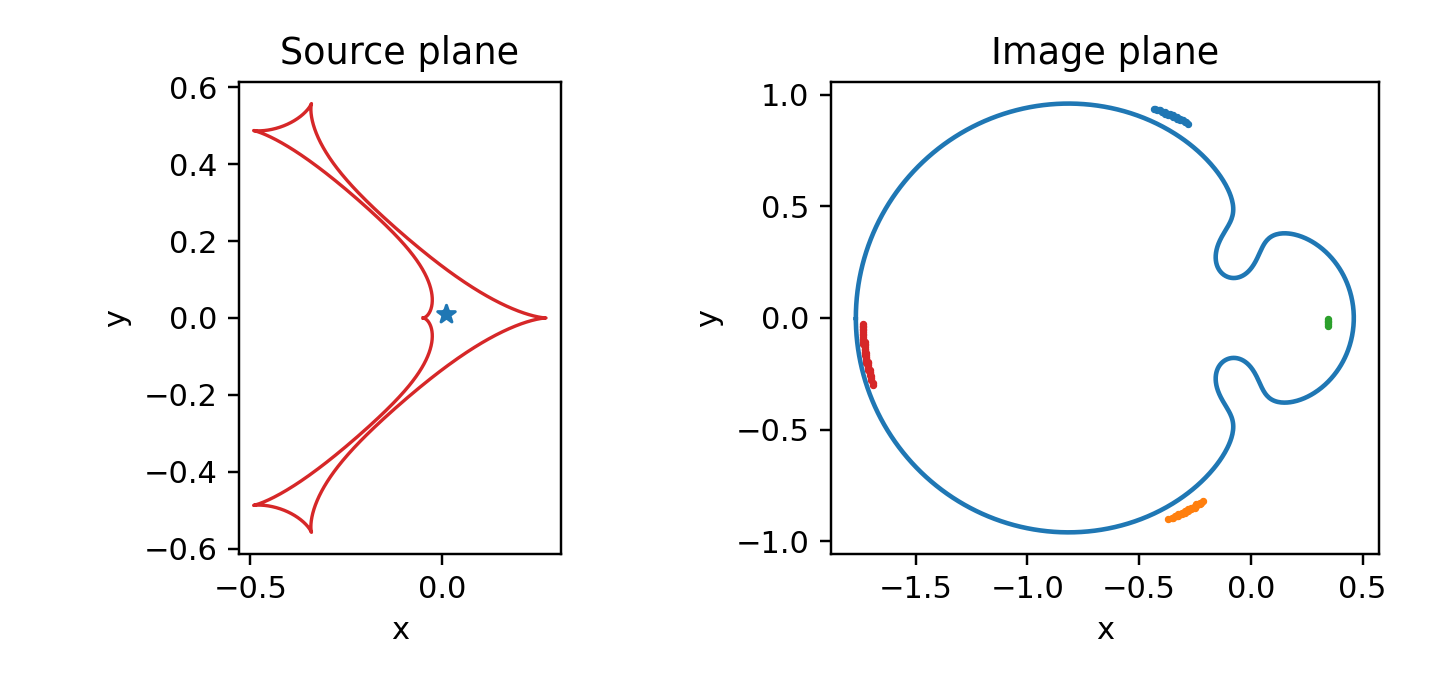
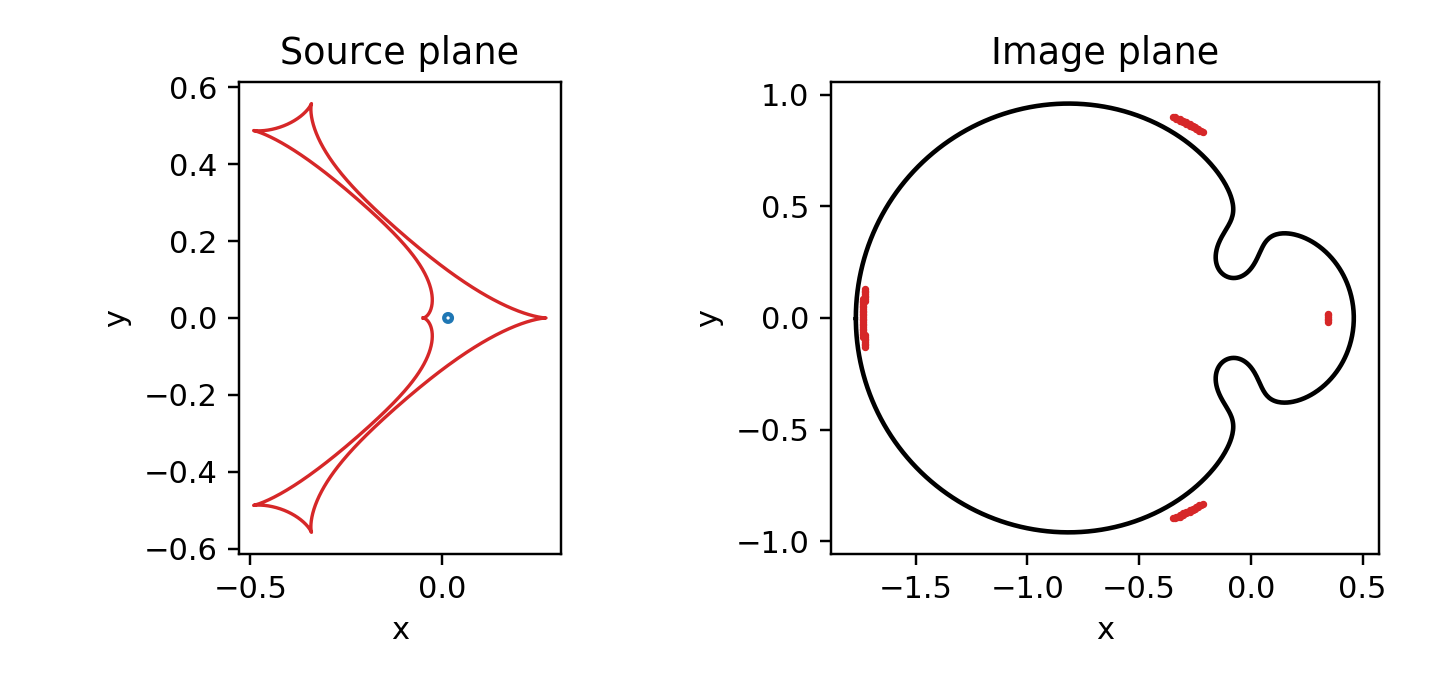
docs: clarify binary lens image-plane geometry

diff --git a/example/docs-python/generate_figures.py b/example/docs-python/generate_figures.py
@@ -61,7 +61,7 @@ def standard_binary():
 
 
 def binary_lens_images():
-    q, s, y1, y2, rho = 0.1, 0.8, 0.01, 0.01, 0.01
+    q, s, y1, y2, rho = 0.1, 0.8, 0.015, 0.0, 0.01
     image_plane = lcbinint.image.ImagePlane(
         q=q, s=s, x=y1, y=y2, rho=rho, coordinates="lcbinint"
     )
@@ -72,15 +72,16 @@ def binary_lens_images():
     fig, (source_ax, image_ax) = plt.subplots(1, 2, figsize=(6.6, 3.1))
     for x, y in zip(caustics.x, caustics.y):
         source_ax.plot(x, y, color="tab:red", lw=1.1)
-    source_ax.scatter([y1], [y2], marker="*", color="tab:blue")
-    source_ax.add_patch(Circle((y1, y2), rho, fill=False, color="tab:blue"))
+    source_ax.add_patch(Circle(
+        (y1, y2), rho, fill=False, edgecolor="tab:blue", linewidth=1.4
+    ))
     source_ax.set(title="Source plane", xlabel="x", ylabel="y", aspect="equal")
 
     for x, y in zip(critical_curves.x, critical_curves.y):
-        image_ax.plot(x, y, color="tab:blue")
+        image_ax.plot(x, y, color="black")
     for region in image_regions:
         if len(region.points):
-            image_ax.scatter(region.points[:, 0], region.points[:, 1], s=2)
+            image_ax.scatter(region.points[:, 0], region.points[:, 1], s=2, color="tab:red")
     image_ax.set(title="Image plane", xlabel="x", ylabel="y", aspect="equal")
     fig.tight_layout()
     plt.savefig(OUTPUT / "BinaryLens_images.png", dpi=220)

diff --git a/docs/python/BinaryLenses.md b/docs/python/BinaryLenses.md
@@ -11,8 +11,8 @@ import lcbinint
 
 s = 0.8
 q = 0.1
-y1 = 0.01
-y2 = 0.01
+y1 = 0.015
+y2 = 0.0
 
 image_plane = lcbinint.image.ImagePlane(
     q=q, s=s, x=y1, y=y2, coordinates="lcbinint"
@@ -39,7 +39,7 @@ print("Binary-lens magnification =", magnification)
 ```
 
 The direct calculation is useful for fitting, while separate source- and
-image-plane panels show what produced that number. Caustics are points in the
+image-plane panels show what produced that number. Caustics are curves in the
 source plane; critical curves and finite images belong to the image plane.
 
 ```python
@@ -57,15 +57,16 @@ fig, (source_ax, image_ax) = plt.subplots(1, 2, figsize=(6.6, 3.1))
 
 for x, y in zip(caustics.x, caustics.y):
     source_ax.plot(x, y, color="tab:red", lw=1.1)
-source_ax.scatter([y1], [y2], marker="*", color="tab:blue")
-source_ax.add_patch(Circle((y1, y2), rho, fill=False, color="tab:blue"))
+source_ax.add_patch(Circle(
+    (y1, y2), rho, fill=False, edgecolor="tab:blue", linewidth=1.4
+))
 source_ax.set(title="Source plane", xlabel="x", ylabel="y", aspect="equal")
 
 for x, y in zip(critical_curves.x, critical_curves.y):
-    image_ax.plot(x, y, color="tab:blue")
+    image_ax.plot(x, y, color="black")
 for region in image_regions:
     if len(region.points):
-        image_ax.scatter(region.points[:, 0], region.points[:, 1], s=2)
+        image_ax.scatter(region.points[:, 0], region.points[:, 1], s=2, color="tab:red")
 image_ax.set(title="Image plane", xlabel="x", ylabel="y", aspect="equal")
 
 fig.tight_layout()
